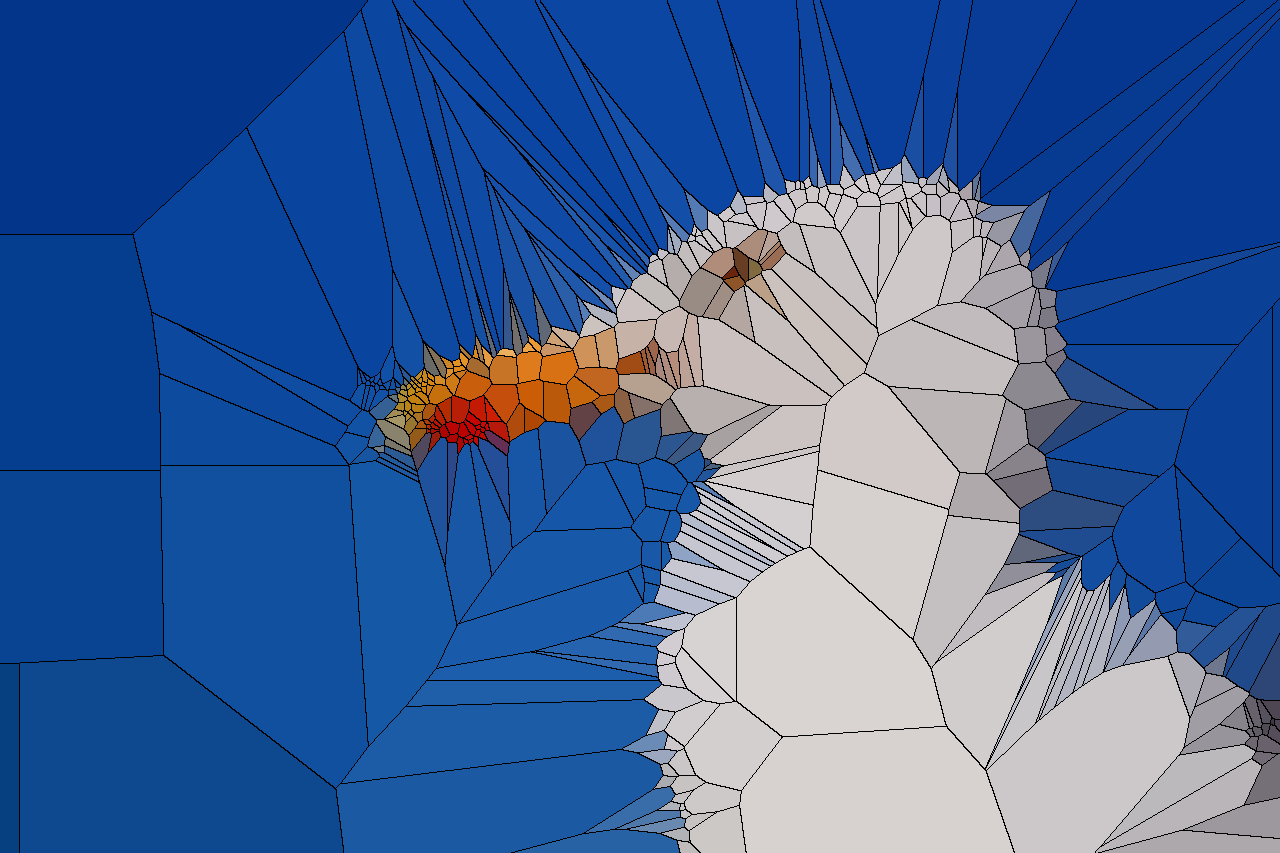
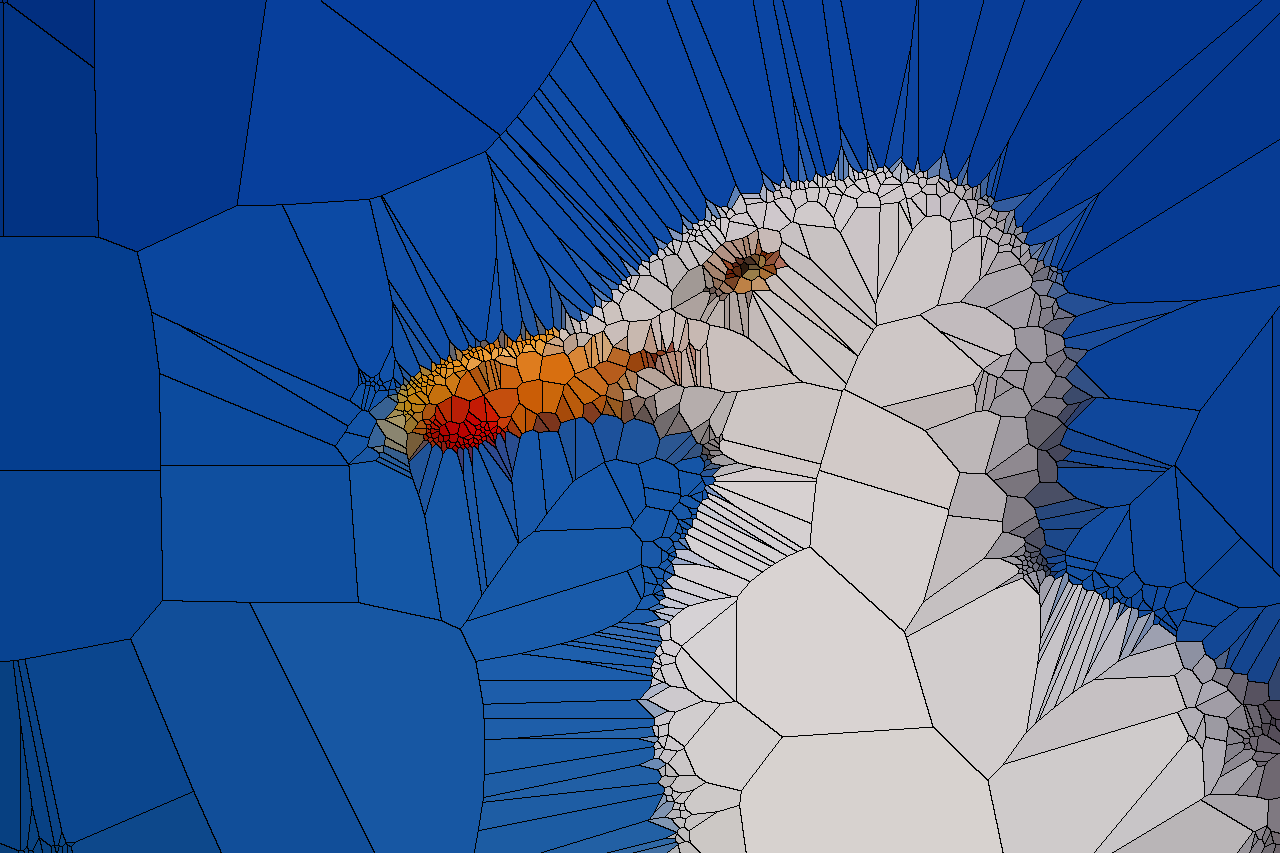
add: add Delaunay process example

diff --git a/main.py b/main.py
@@ -413,12 +413,14 @@ def main() -> None:
         input_path=args.input_path,
         seeds_per_region=args.seeds_per_region,
         output_path=args.output_path,
+        
         max_seeds=args.max_seeds,
         save_gif=args.gif,
         gif_path=args.gif_path,
         frame_duration_ms=args.frame_duration,
         draw_boundaries=not args.no_boundary,
         min_seed_distance=args.min_seed_distance,
+        
         save_delaunay=args.delaunay,
         delaunay_output_path=args.delaunay_output,
         draw_delaunay_edges=not args.no_delaunay_edge,